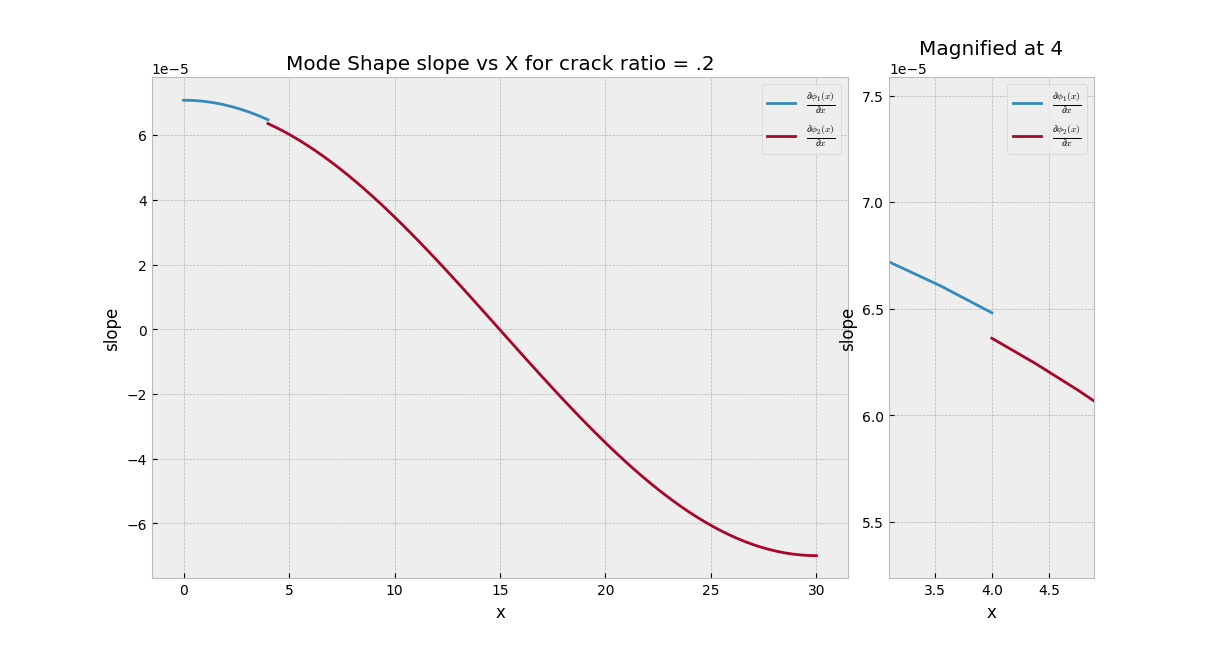
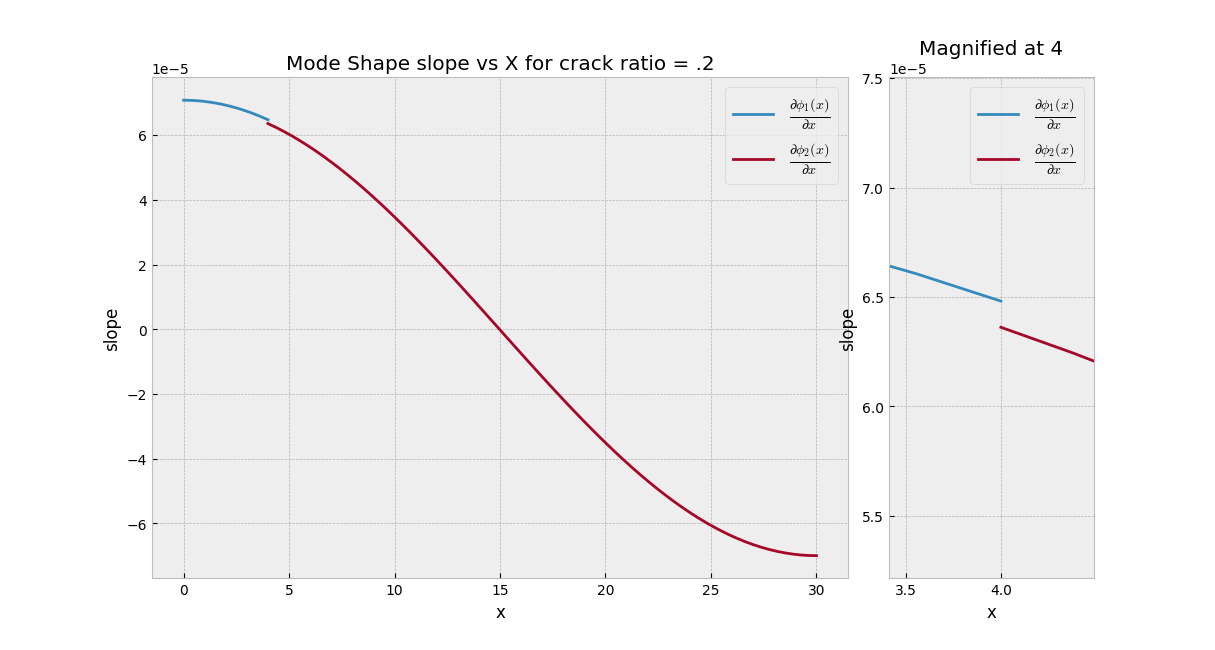
slope

diff --git a/main.py b/main.py
@@ -85,10 +85,10 @@ xx1 = np.linspace(0,4,10)
 xx2 = np.linspace(4,30,70)
 ax.plot(xx1,dphi1(xx1,f(.2)),label="$\\frac{\partial\phi_1(x)}{\partial{x}}$")
 ax.plot(xx2,dphi2(xx2,f(.2)),label="$\\frac{\partial\phi_2(x)}{\partial{x}}$")
-ax.legend()
+ax.legend(fontsize="x-large")
 ay.plot(xx1,dphi1(xx1,f(.2)),label="$\\frac{\partial\phi_1(x)}{\partial{x}}$")
 ay.plot(xx2,dphi2(xx2,f(.2)),label="$\\frac{\partial\phi_2(x)}{\partial{x}}$")
-ay.legend()
+ay.legend(fontsize="x-large")
 ay.set_xlim(3,5)
 
 plt.show()
